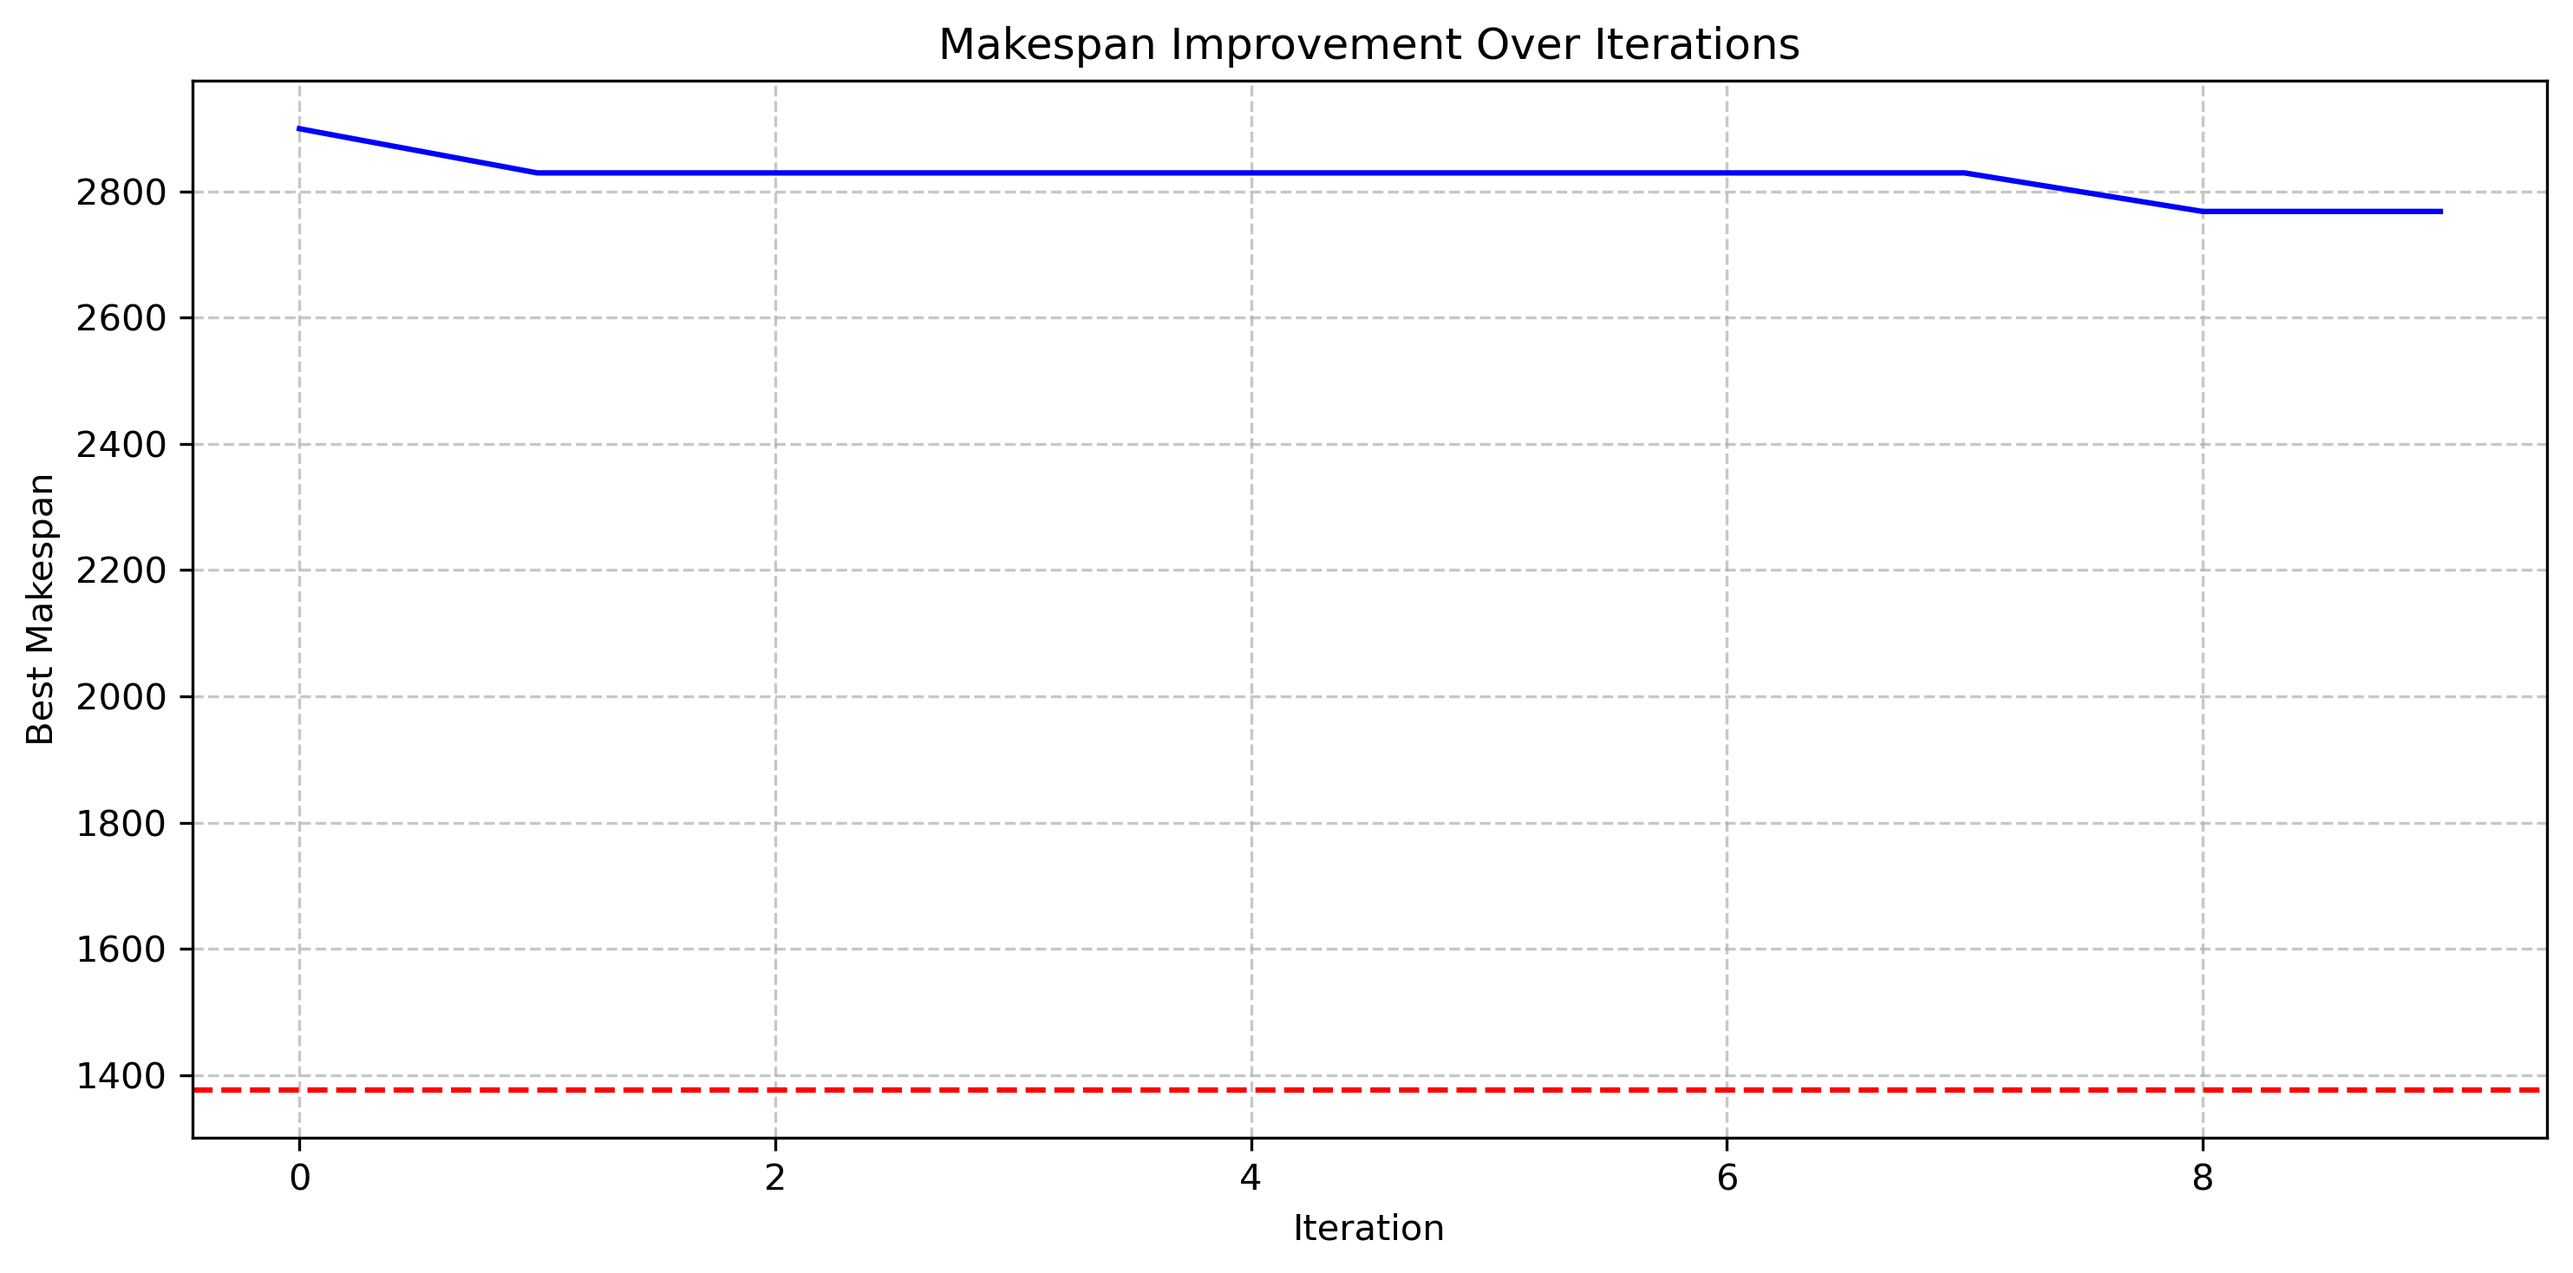
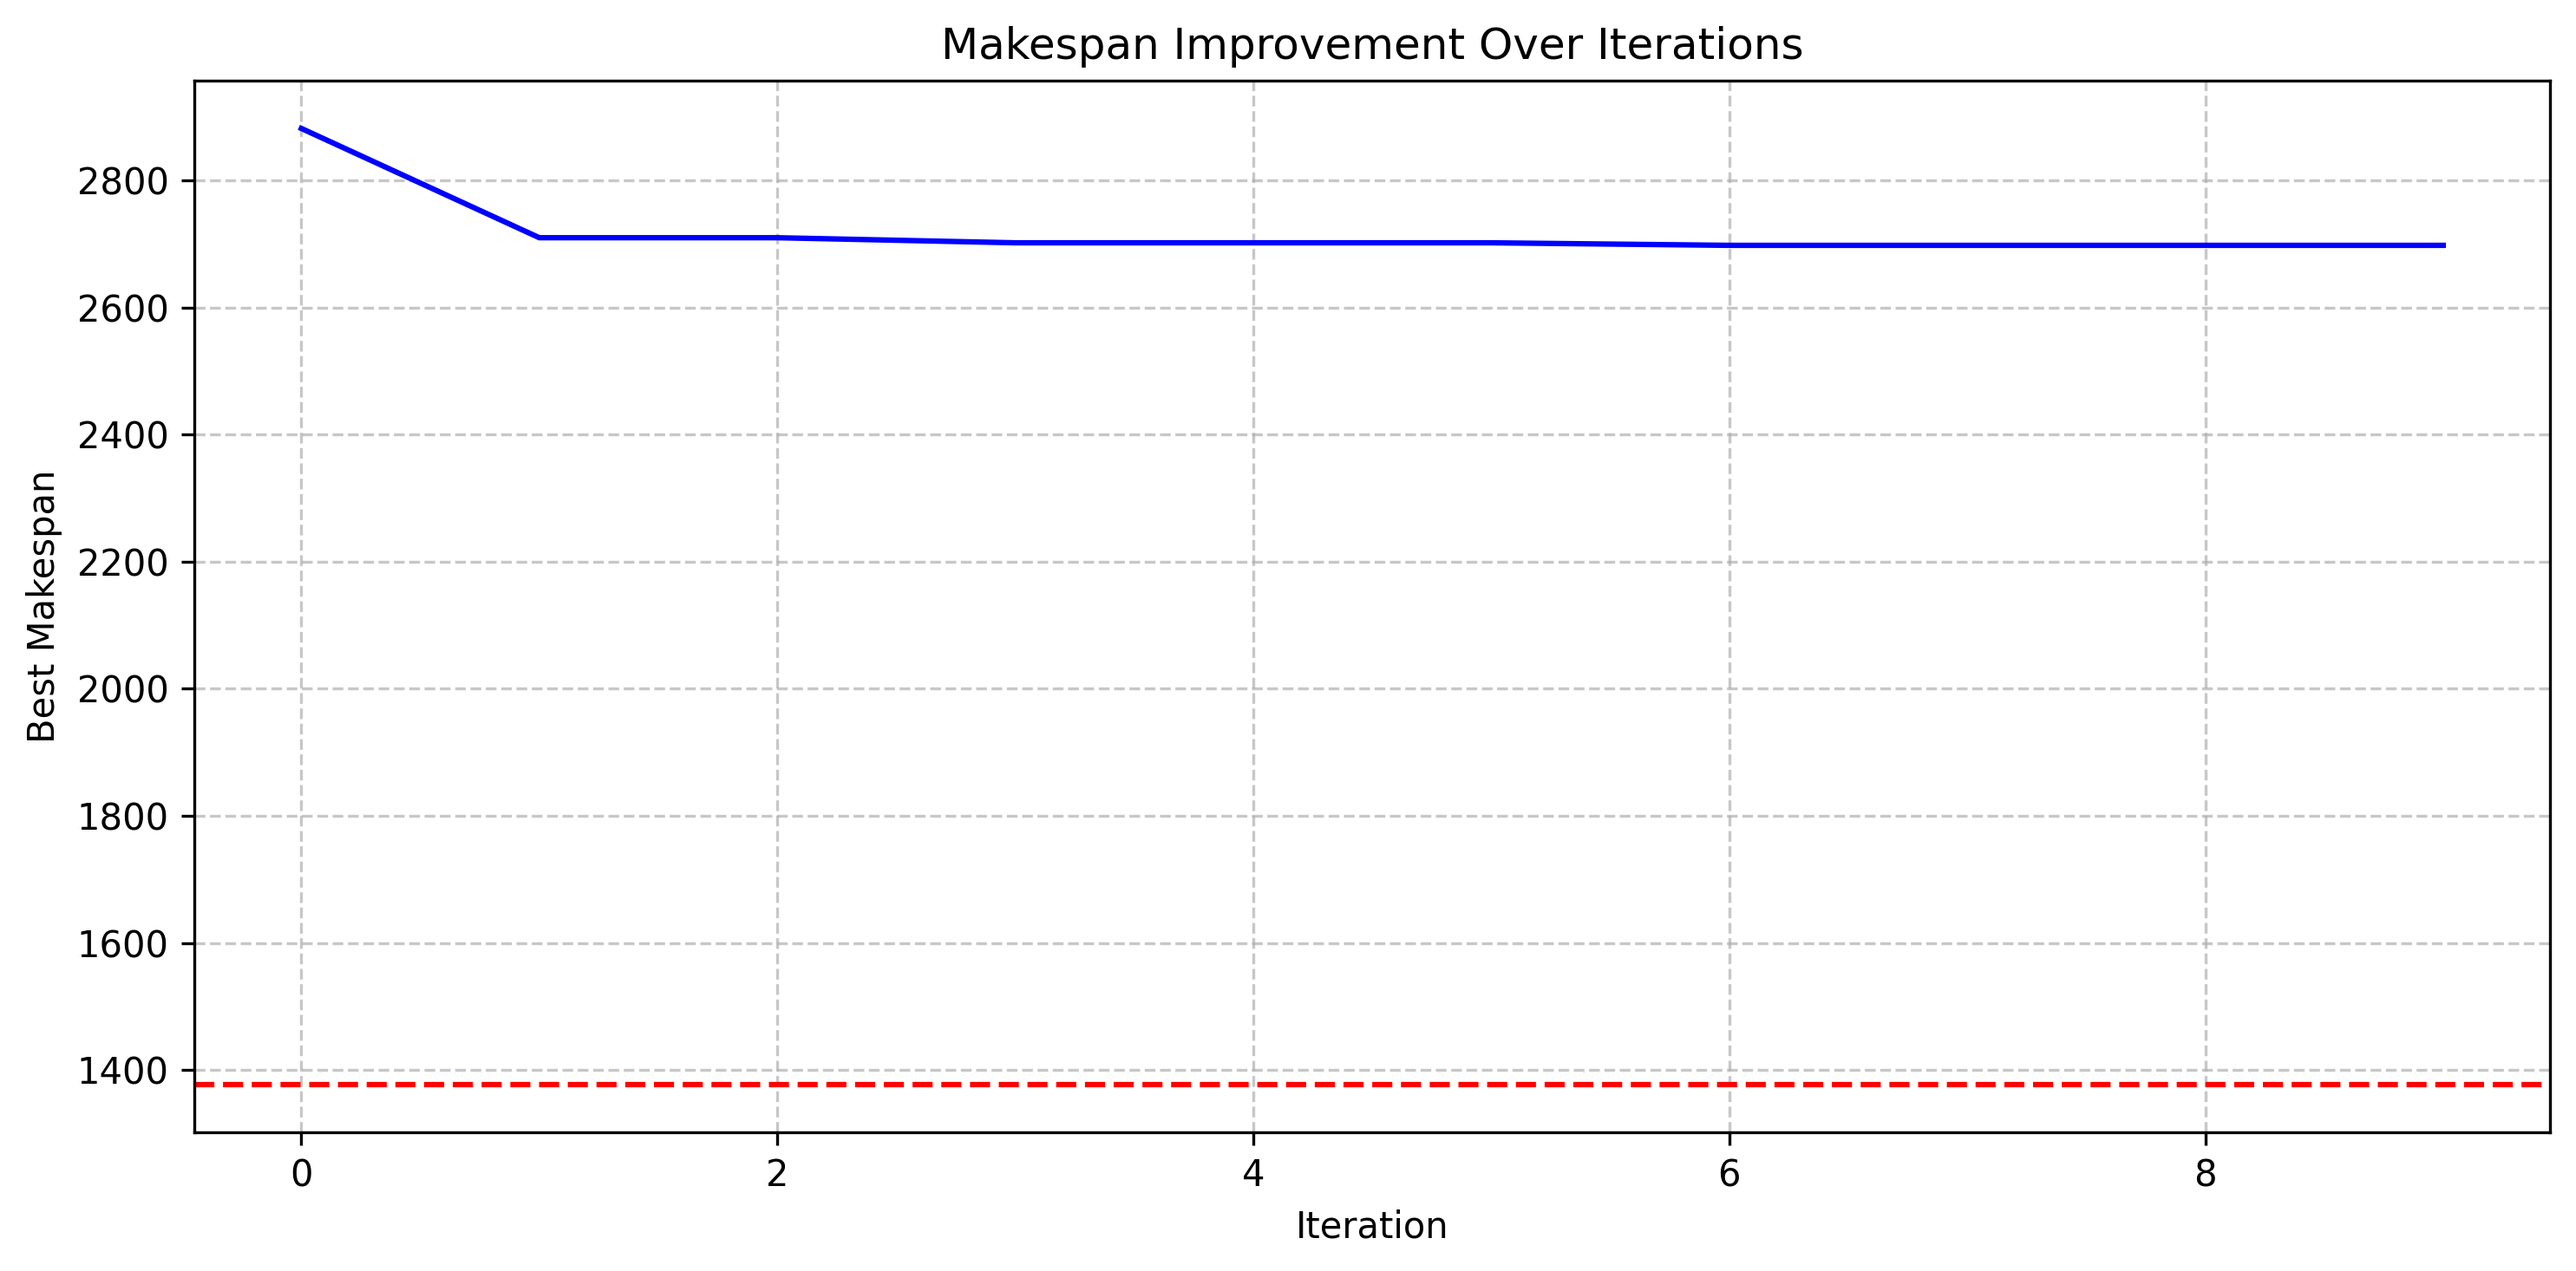
tests

diff --git a/src/modules/particle.py b/src/modules/particle.py
@@ -15,7 +15,6 @@ class Particle:
         self.best_fitness = float("inf")
         self.fitness = float("inf")
 
-    from copy import deepcopy
 
     def update_position(self, job_machine_dict: dict[int, list[int]]):
         """Update position by applying velocity (swaps), skipping invalid ones and preserving machine order."""
@@ -23,21 +22,23 @@ class Particle:
         valid_velocity = []
 
         for i, j in self.velocity:
+            # Check indices are valid and not swapping operations from same job
             if (
-                i < len(new_position)
-                and j < len(new_position)
-                and new_position[i][0] != new_position[j][0]
+                i < len(new_position) # Check if index i is within bounds of new_position
+                and j < len(new_position) 
+                and new_position[i][0] != new_position[j][0] # Ensure not swapping operations from the same job
             ):
                 # Tentatively swap
                 new_position[i], new_position[j] = new_position[j], new_position[i]
 
-                def is_machine_order_valid(pos, job_id):
-                    machines_in_position = [op[1] for op in pos if op[0] == job_id]
-                    correct_order = job_machine_dict[job_id]
+                def is_machine_order_valid(pos, job_id): # pos: The current sequence of operations (list of (job_idx, op_idx) tuples)
+                    machines_in_position = [op[1] for op in pos if op[0] == job_id] # Extracts just the machine indices from those operations
+                    correct_order = job_machine_dict[job_id] #Retrieves the predefined correct machine sequence for this job from job_machine_dict
                     return all(
                         m1 == m2 for m1, m2 in zip(machines_in_position, correct_order)
                     )
-
+                
+                # Check if swap maintains valid machine order for both jobs
                 job_i = new_position[i][0]
                 job_j = new_position[j][0]
 
@@ -50,29 +51,29 @@ class Particle:
                     new_position[i], new_position[j] = new_position[j], new_position[i]
 
         self.position = new_position
-        self.velocity = valid_velocity[: len(new_position)]  # Trim if needed
+        self.velocity = valid_velocity[: len(new_position)]  # Trim if needed (to match position length)
 
     def update_velocity(
         self,
         global_best_position: List[Tuple[int, int]],
-        w: float,
+        w: float, 
         c1: float,
         c2: float,
     ):
         """Update velocity based on personal and global best positions."""
         new_velocity = []
-        for swap in self.velocity:
-            if random.random() < w:
+        for swap in self.velocity: 
+            if random.random() < w: # Each existing swap has probability w of being retained
                 new_velocity.append(swap)
 
         for i in range(len(self.position)):
-            if random.random() < random.random() * c1:
+            if random.random() < random.random() * c1: # Probability random() * c1 controls exploration/exploitation balance
                 if self.position[i] != self.best_position[i]:
                     j = self.best_position.index(self.position[i])
                     new_velocity.append((i, j))
 
         for i in range(len(self.position)):
-            if random.random() < random.random() * c2:
+            if random.random() < random.random() * c2: # Probability random() * c2 controls swarm influence
                 if self.position[i] != global_best_position[i]:
                     j = global_best_position.index(self.position[i])
                     new_velocity.append((i, j))

diff --git a/src/modules/modelisation.py b/src/modules/modelisation.py
@@ -36,15 +36,15 @@ class JSSP:
             Job(j, machines_matrix[j], times_matrix[j]) for j in range(self.num_jobs)
         ]
         self.schedule = {}  # Stores start & end times per machine
-        self.job_machine_dict = {
-            job_idx: [op.machine - 1 for op in self.jobs[job_idx].operations]
+        self.job_machine_dict = { # Maps job IDs to their machine IDs : Speeds up access during scheduling (no need to recompute machine assignments repeatedly).
+            job_idx: [op.machine - 1 for op in self.jobs[job_idx].operations] #Creates a lookup table where, for each job (job_idx), we store the machine IDs (0-based index) for its operations because  Machine IDs are 1-indexed in the input
             for job_idx in range(self.num_jobs)
         }
         self.initialize_schedule()
 
     def initialize_schedule(self):
         """Creates an empty schedule for all machines."""
-        self.schedule = {m: [] for m in range(1, self.num_machines + 1)}
+        self.schedule = {m: [] for m in range(1, self.num_machines + 1)} # self.schedule is populated with keys for each machine (e.g., {1: [], 2: [], 3: []} for 3 machines).
 
     def __repr__(self):
         return f"JSSP with {self.num_jobs} Jobs and {self.num_machines} Machines"
@@ -58,13 +58,13 @@ class JSSP:
             job.current_operation_index = 0
 
         self.initialize_schedule()
-        job_times = [0] * self.num_jobs
-        machine_times = {m: 0 for m in self.schedule.keys()}
+        job_times = [0] * self.num_jobs # Tracks the completion time of each job (initially 0).
+        machine_times = {m: 0 for m in self.schedule.keys()} # Tracks when each machine is free
 
         for job_idx, op_idx in operation_sequence:
             job = self.jobs[job_idx]
             op = job.operations[op_idx]
-            start_time = max(job_times[job_idx], machine_times[op.machine])
+            start_time = max(job_times[job_idx], machine_times[op.machine]) # Start when job and machine are free 
             end_time = start_time + op.processing_time
             op.start_time = start_time
             op.end_time = end_time

diff --git a/src/modules/pso.py b/src/modules/pso.py
@@ -41,18 +41,21 @@ class PSOOptimizer:
         global_best_position = None
         global_best_fitness = float("inf")
 
-        for _ in range(num_particles):
+        for _ in range(num_particles): # Creates swarm with random valid sequences
             sequence = self.generate_initial_sequence()
             particles.append(Particle(sequence, self.jssp.job_machine_dict))
 
         for iteration in range(max_iter):
+            # Evaluation phase
             for particle in particles:
                 particle.fitness = self.jssp.evaluate_schedule(particle.position)
 
+                # Update personal best
                 if particle.fitness < particle.best_fitness:
                     particle.best_fitness = particle.fitness
                     particle.best_position = deepcopy(particle.position)
 
+                # Update global best
                 if particle.fitness < global_best_fitness:
                     global_best_fitness = particle.fitness
                     global_best_position = deepcopy(particle.position)

diff --git a/test.py b/test.py
@@ -19,7 +19,7 @@ if __name__ == "__main__":
     # Create and run optimization
     jssp = JSSP(machines_matrix, times_matrix)
     optimizer = PSOOptimizer(jssp)
-    best_schedule, best_makespan = optimizer.optimize(num_particles=20, max_iter=2)
+    best_schedule, best_makespan = optimizer.optimize(num_particles=100, max_iter=50)
 
     # Display results
     print(best_schedule)
